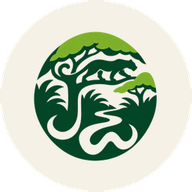
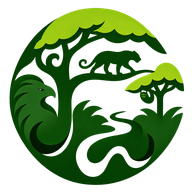
Deploy site

diff --git a/css/style.css b/css/style.css
@@ -54,13 +54,14 @@
 
 /* ─── DESIGN TOKENS ─── */
 :root {
-  /* The Jungle Whisperer — "the rainforest palette" (lead with ivory and deep green;
-     canopy for highlights, clay for occasional warmth, mist for quiet surfaces) */
+  /* The Jungle Whisperer — approved identity 21 Nov 2026 (lead with ivory and
+     deep green; canopy for highlights, champagne as an optional accent,
+     mist for quiet surfaces) */
   --color-forest: #073b22;        /* rainforest */
   --color-forest-light: #0e5a33;  /* derived hover state */
-  --color-gold: #86a62f;          /* canopy — highlights only, never small text */
-  --color-gold-light: #a3c24a;    /* canopy lifted for dark grounds */
-  --color-orange: #ac6348;        /* clay */
+  --color-gold: #8dba19;          /* canopy — highlights only, never small text */
+  --color-gold-light: #a6d13a;    /* canopy lifted for dark grounds */
+  --color-orange: #cdbb9e;        /* champagne — optional accent, rules only */
   --color-cream: #f5f1e7;         /* ivory */
   --color-cream-dark: #dce3d4;    /* mist */
   --color-charcoal: #08271e;      /* night */
@@ -629,7 +630,7 @@ section {
 .intro-card:hover {
   transform: translateY(-6px);
   box-shadow: var(--shadow-lg);
-  border-color: rgba(134, 166, 47, 0.25);
+  border-color: rgba(141, 186, 25, 0.25);
 }
 
 .intro-card-icon {
@@ -638,7 +639,7 @@ section {
   display: flex;
   align-items: center;
   justify-content: center;
-  background: rgba(134, 166, 47, 0.12);
+  background: rgba(141, 186, 25, 0.12);
   border-radius: 50%;
   font-size: 1.5rem;
   margin-bottom: 1.25rem;
@@ -696,7 +697,7 @@ section {
 
 .experience-card:hover {
   background: rgba(255, 255, 255, 0.08);
-  border-color: rgba(134, 166, 47, 0.3);
+  border-color: rgba(141, 186, 25, 0.3);
 }
 
 .experience-card h3 {
@@ -836,7 +837,7 @@ section {
   color: var(--color-gold);
   margin-bottom: 0.75rem;
   padding: 0.3rem 0.75rem;
-  background: rgba(134, 166, 47, 0.1);
+  background: rgba(141, 186, 25, 0.1);
   border-radius: 50px;
 }
 
@@ -953,7 +954,7 @@ section {
   display: flex;
   align-items: center;
   justify-content: center;
-  background: rgba(134, 166, 47, 0.15);
+  background: rgba(141, 186, 25, 0.15);
   border-radius: 50%;
 }
 
@@ -1823,7 +1824,7 @@ section {
 
 :root {
   /* readable canopy for small text on light backgrounds (AA at 0.75rem bold);
-     the brand's #86A62F is a highlight colour and measures 2.5:1 on ivory */
+     the brand's #8DBA19 is a highlight colour and measures 2.0:1 on ivory */
   --color-gold-text: #4a6413;
 }
 
@@ -2241,8 +2242,9 @@ header[id] {
 
 /* ─── BRAND: footer lockup, brand line, business-card QR ─── */
 .footer-logo {
-  width: 220px;
-  height: 220px;
+  width: 340px;      /* above the guide's 320 px digital minimum for the full lockup */
+  height: auto;
+  max-width: 100%;
   margin-bottom: 0.5rem;
 }
 
@@ -2303,8 +2305,8 @@ header[id] {
   }
 
   .footer-logo {
-    width: 180px;
-    height: 180px;
+    width: 320px;    /* still at the guide's minimum; the lockup never shrinks below it */
+    height: auto;
   }
 }
 

diff --git a/index.html b/index.html
@@ -153,8 +153,8 @@
   <nav class="nav" id="nav" aria-label="Main navigation">
     <div class="container">
       <a href="#top" class="nav-logo">
-        <img src="images/brand/logo-crest.webp" alt="" width="191" height="205" class="nav-logo-crest">
-        <img src="images/brand/logo-wordmark.webp" alt="The Jungle Whisperer — Jason Westlake" width="371" height="154" class="nav-logo-words">
+        <img src="images/brand/nav-crest.webp" alt="" width="244" height="176" class="nav-logo-crest">
+        <img src="images/brand/nav-words.webp" alt="The Jungle Whisperer — Jason Westlake" width="357" height="132" class="nav-logo-words">
       </a>
 
       <button class="nav-toggle" id="nav-toggle" type="button" aria-label="Open navigation" aria-expanded="false" aria-controls="nav-links">
@@ -1022,7 +1022,7 @@
     <div class="container">
       <div class="footer-grid">
         <div>
-          <img src="images/brand/logo-ivory-transparent.webp" alt="The Jungle Whisperer — Jason Westlake" width="220" height="220" class="footer-logo" loading="lazy" decoding="async">
+          <img src="images/brand/footer-lockup.webp" alt="The Jungle Whisperer — Jason Westlake" width="340" height="291" class="footer-logo" loading="lazy" decoding="async">
           <p class="footer-brandline">Journeys begin with listening.</p>
           <p class="footer-about">A transformational 7-day journey into the remote Sipaliwini savannah of Suriname, led by Jason Westlake — founder of Restoring Ecosystems Globally — in partnership with Discover Suriname Tours.</p>
         </div>
